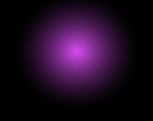
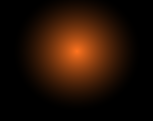
Make the rune transformer a dark iron runesmith's forge
Blackened wrought iron and soot-stained firebrick replace the gold and
purple; the Geneva mechanism is dark bronze and heat-scaled steel. The
hearth, the melt and the ground light glow ember orange, while the rune
glyphs and the reading beam keep their colours.

diff --git a/blender/rune_transformer.py b/blender/rune_transformer.py
@@ -45,11 +45,116 @@ assert N % FPI == 0 and (N // FPI) % 9 == 0, "loop must index the carousel a who
 # ----------------------------------------------------------------------------
 # Materials
 # ----------------------------------------------------------------------------
+#
+# A runesmith's forge, not another gold-and-purple pedestal: blackened wrought
+# iron and soot-stained firebrick, heat-scaled steel and dark bronze in the
+# mechanism, ember-orange fire. Gold survives only as a few accents (GILT:
+# hearth frame, glyph-plate frames, crucible lip, orb ring), purple only in
+# the orb. The shared names are rebound below - in this module and in fblend,
+# whose helpers (frames, filigree, studs) default to fblend.GOLD / RUBY - so
+# the model code keeps its structure.
+
+GILT, GEM = GOLD, RUBY
+
+
+def firebrick(name):
+    """Running-bond firebrick, soot-blackened towards the top and in patches.
+    Bricks are laid in (x + y, z) so front and side walls share one bond."""
+    m, nt, bsdf = node_mat(name)
+    L = nt.links.new
+    tc = nt.nodes.new("ShaderNodeTexCoord")
+    sep = nt.nodes.new("ShaderNodeSeparateXYZ")
+    L(tc.outputs["Object"], sep.inputs[0])
+    uadd = nt.nodes.new("ShaderNodeMath")
+    L(sep.outputs["X"], uadd.inputs[0])
+    L(sep.outputs["Y"], uadd.inputs[1])
+    comb = nt.nodes.new("ShaderNodeCombineXYZ")
+    L(uadd.outputs[0], comb.inputs["X"])
+    L(sep.outputs["Z"], comb.inputs["Y"])
+    br = nt.nodes.new("ShaderNodeTexBrick")
+    br.inputs["Scale"].default_value = 1.0
+    br.inputs["Brick Width"].default_value = 0.13
+    br.inputs["Row Height"].default_value = 0.055
+    br.inputs["Mortar Size"].default_value = 0.008
+    br.inputs["Color1"].default_value = (0.30, 0.12, 0.06, 1)
+    br.inputs["Color2"].default_value = (0.19, 0.075, 0.04, 1)
+    br.inputs["Mortar"].default_value = (0.05, 0.045, 0.04, 1)
+    br.offset = 0.5
+    L(comb.outputs[0], br.inputs["Vector"])
+    # soot: noise patches, heavier up the wall (smoke rises past the rim)
+    nz = nt.nodes.new("ShaderNodeTexNoise")
+    nz.inputs["Scale"].default_value = 6.0
+    nz.inputs["Detail"].default_value = 8.0
+    L(tc.outputs["Object"], nz.inputs["Vector"])
+    hz = nt.nodes.new("ShaderNodeMapRange")
+    hz.inputs["From Min"].default_value = 0.1
+    hz.inputs["From Max"].default_value = 0.55
+    hz.inputs["To Min"].default_value = 0.1
+    hz.inputs["To Max"].default_value = 0.6
+    L(sep.outputs["Z"], hz.inputs["Value"])
+    sm = nt.nodes.new("ShaderNodeMath")
+    sm.operation = "MULTIPLY_ADD"
+    L(nz.outputs["Fac"], sm.inputs[0])
+    sm.inputs[1].default_value = 0.9
+    L(hz.outputs["Result"], sm.inputs[2])
+    sc = nt.nodes.new("ShaderNodeMapRange")
+    sc.inputs["From Min"].default_value = 0.6
+    sc.inputs["From Max"].default_value = 1.1
+    L(sm.outputs[0], sc.inputs["Value"])
+    mix = nt.nodes.new("ShaderNodeMix")
+    mix.data_type = "RGBA"
+    mix.inputs["B"].default_value = (0.02, 0.018, 0.016, 1)
+    L(sc.outputs["Result"], mix.inputs["Factor"])
+    L(br.outputs["Color"], mix.inputs["A"])
+    ao = nt.nodes.new("ShaderNodeAmbientOcclusion")
+    ao.inputs["Distance"].default_value = 0.1
+    L(mix.outputs["Result"], ao.inputs["Color"])
+    L(ao.outputs["Color"], bsdf.inputs["Base Color"])
+    bsdf.inputs["Roughness"].default_value = 0.85
+    # recessed mortar joints plus pitted brick faces
+    pit = nt.nodes.new("ShaderNodeTexNoise")
+    pit.inputs["Scale"].default_value = 70.0
+    L(tc.outputs["Object"], pit.inputs["Vector"])
+    hsum = nt.nodes.new("ShaderNodeMath")
+    hsum.operation = "MULTIPLY_ADD"
+    L(pit.outputs["Fac"], hsum.inputs[0])
+    hsum.inputs[1].default_value = 0.25
+    L(br.outputs["Fac"], hsum.inputs[2])
+    b = nt.nodes.new("ShaderNodeBump")
+    b.inputs["Strength"].default_value = 0.7
+    b.inputs["Distance"].default_value = 0.01
+    b.invert = True
+    L(hsum.outputs[0], b.inputs["Height"])
+    L(b.outputs["Normal"], bsdf.inputs["Normal"])
+    return m
+
+
+BRICK = firebrick("firebrick")
+IRON = metal("wrought_iron", (0.13, 0.12, 0.11), (0.018, 0.016, 0.014), rough=(0.45, 0.75),
+             bump=0.35, bump_scale=45.0, dirt=0.35, wear=(0.2, 0.19, 0.18), hammered=True)
+# heat-scaled steel: dull grey with straw-to-blue temper bloom in the noise
+SCALED = metal("heat_scaled_steel", (0.30, 0.27, 0.26), (0.05, 0.045, 0.06), rough=(0.3, 0.6),
+               noise_scale=7.0, dirt=0.25, wear=(0.36, 0.25, 0.14))
+DARK_BRONZE = metal("dark_bronze", (0.26, 0.17, 0.09), (0.035, 0.022, 0.012), rough=(0.35, 0.65),
+                    dirt=0.3)
+STONE = paint("refractory", (0.25, 0.22, 0.19), (0.04, 0.035, 0.03), noise_scale=12.0,
+              bump=0.8, bump_scale=35.0, dirt=0.45)
+GOLD = fblend.GOLD = IRON          # frames, rails, scrollwork: wrought iron strapwork
+RUBY = fblend.RUBY = IRON          # stud heads: iron rivets
+BRASS = DARK_BRONZE
+STEEL = fblend.STEEL = SCALED
+BRONZE = IRON
+PURPLE = BRICK
+# the wing inlays and the rack tile glow like embers, not mana
+_rb = fblend.RUNE.node_tree.nodes["Principled BSDF"]
+_rb.inputs["Emission Color"].default_value = (1.0, 0.38, 0.08, 1)
+_rb.inputs["Base Color"].default_value = (0.06, 0.03, 0.02, 1)
+EMBER = (1.0, 0.36, 0.07)
 
 SLATE = paint("slate", (0.075, 0.055, 0.085), (0.012, 0.008, 0.014), noise_scale=14.0,
               bump=0.5, bump_scale=40.0, dirt=0.1, hammered=True)
-DECK = paint("deck", (0.22, 0.045, 0.17), (0.02, 0.004, 0.016), noise_scale=9.0,
-             bump=0.6, bump_scale=25.0, dirt=0.35, hammered=True)
+DECK = metal("deck", (0.10, 0.095, 0.09), (0.015, 0.013, 0.012), rough=(0.5, 0.8),
+             noise_scale=9.0, bump=0.6, bump_scale=25.0, dirt=0.5, hammered=True)
 
 # The nine rune words, in carousel order, coloured like their item icons.
 GLYPHS = (
@@ -129,9 +234,10 @@ def flowing(name, color, strength, scale=9.0):
 
 
 MELT, MELT_EM, MELT_COL, MELT_UV = flowing("melt", GLYPHS[0][1], 1.0, scale=14.0)
-HEARTH, HEARTH_EM, _, HEARTH_UV = flowing("hearth", (0.85, 0.12, 0.7), 1.0, scale=7.0)
+HEARTH, HEARTH_EM, _, HEARTH_UV = flowing("hearth", EMBER, 1.0, scale=7.0)
 ORB, ORB_EM = emitter("orb", (0.85, 0.12, 0.8), 1.0, base=(0.5, 0.03, 0.42), glass=True)
-VIAL, VIAL_EM = emitter("vial", (0.6, 0.1, 0.75), 0.6, base=(0.3, 0.03, 0.35))
+# the vial holds liquid fire feeding the crucible
+VIAL, VIAL_EM = emitter("vial", (1.0, 0.42, 0.08), 0.6, base=(0.2, 0.05, 0.01))
 
 
 def beam_mat():
@@ -216,7 +322,7 @@ def rail(name, pts3, r, closed=False, mat=None, parent=None):
 FIL_R = 0.022        # raised scrollwork (thinner than the 3x3's: smaller panels)
 
 # --- plinth: dark bronze band, gold top rail, rivets ---------------------------
-prism("plinth", bot2d, 0, PLINTH_H, BRONZE)
+prism("plinth", bot2d, 0, PLINTH_H, STONE)
 rail("plinth_rail", [(x, y, PLINTH_H) for x, y in bot2d], 0.04, closed=True)
 rail("plinth_foot", [(x * 1.006, y * 1.006, 0.015) for x, y in bot2d], 0.02, closed=True)
 for fi in (5, 0, 1, 2):
@@ -246,13 +352,13 @@ throat = sub_panel(front, WIN_U0 + 0.01, WIN_U1 - 0.01, WIN_V0 + 0.02, WIN_V1 - 
 fire_o = throat.build("hearth_fire", HEARTH, thick=0.005, parent=root)
 fire_o.location = tuple(front.n * 0.004)     # just proud of the wall, behind the grille
 glow(fire_o)
-gold_frame(win, "hearth_frame", r=0.034, parent=root)
+gold_frame(win, "hearth_frame", r=0.034, parent=root, mat=GILT)
 for k in range(5):   # grille bars, partly veiling the fire
     u = (k + 1) / 6
     rail(f"hearth_bar{k}", [win.at(u, 0.0, 0.03), win.at(u, 1.0, 0.03)], 0.012, mat=BRASS)
 rail("hearth_crossbar", [win.at(0.0, 0.5, 0.035), win.at(1.0, 0.5, 0.035)], 0.011, mat=BRASS)
 # lintel with ruby keystone, sill underneath
-win.studs("hearth_key", [(0.5, 1.12)], r=0.03, mat=RUBY, parent=root)
+win.studs("hearth_key", [(0.5, 1.12)], r=0.03, mat=GEM, parent=root)
 rail("hearth_sill", [win.at(-0.08, -0.1, 0.03), win.at(1.08, -0.1, 0.03)], 0.026)
 for k, (u0, u1, m) in enumerate(((0.03, WIN_U0 - 0.05, False), (WIN_U1 + 0.05, 0.97, True))):
     sp = sub_panel(front, u0, u1, 0.12, 0.88)
@@ -548,7 +654,7 @@ for i, (ch, col) in enumerate(GLYPHS):
     p = Panel(c00, c10, c11, c01)
     p.build(f"plate{i}", SLATE, thick=0.03, parent=carousel)
     face = sub_panel(p, 0.14, 0.86, 0.1, 0.9)
-    gold_frame(face, f"plate{i}_frame", r=0.011, parent=carousel)
+    gold_frame(face, f"plate{i}_frame", r=0.011, parent=carousel, mat=GILT)
     for si, stroke in enumerate(LETTERS[ch]):
         glow(curve_obj(f"plate{i}_glyph{si}",
                        [face.at(0.2 + 0.6 * u, 0.12 + 0.76 * v, 0.008) for u, v in stroke],
@@ -582,7 +688,7 @@ prism("car_lid", [(c.x * 1.02, c.y * 1.02) for c in corners_t], zt, zt + 0.03, G
 bm = bmesh.new()
 bmesh.ops.create_uvsphere(bm, u_segments=36, v_segments=18, radius=RT * 0.78)
 bmesh.ops.delete(bm, geom=[v for v in bm.verts if v.co.z < -1e-4], context="VERTS")
-dome = mesh_obj("car_dome", bm, PURPLE, carousel, smooth=True)
+dome = mesh_obj("car_dome", bm, SCALED, carousel, smooth=True)
 dome.location = (0, 0, zt + 0.03)
 dome.scale = (1, 1, 0.55)
 for i in range(NP):    # gold ribs over the dome
@@ -594,7 +700,7 @@ for i in range(NP):    # gold ribs over the dome
            carousel)
 DOME_TOP = zt + 0.03 + RT * 0.78 * 0.55
 cyl("car_spindle", 0.018, 0.12, (0, 0, DOME_TOP + 0.05), GOLD, carousel, verts=16)
-cyl("car_spindle_cup", 0.045, 0.02, (0, 0, DOME_TOP + 0.11), GOLD, carousel, verts=24, r2=0.06)
+cyl("car_spindle_cup", 0.045, 0.02, (0, 0, DOME_TOP + 0.11), GILT, carousel, verts=24, r2=0.06)
 
 # --- the crucible in front of the reading position -------------------------------
 CRU = Vector((0.0, -0.285, DECK_Z + 0.07))   # rim centre
@@ -602,7 +708,7 @@ CRU_R = 0.105
 o = mesh_obj("crucible_rim", ring_mesh(
     [(CRU_R * math.cos(TAU * i / 48), CRU_R * math.sin(TAU * i / 48)) for i in range(48)],
     [((CRU_R - 0.025) * math.cos(TAU * i / 48), (CRU_R - 0.025) * math.sin(TAU * i / 48))
-     for i in range(48)], -0.025, 0.0), GOLD, mech, smooth=True, bevel=0.008)
+     for i in range(48)], -0.025, 0.0), GILT, mech, smooth=True, bevel=0.008)
 o.location = CRU
 bm = bmesh.new()
 bmesh.ops.create_uvsphere(bm, u_segments=36, v_segments=18, radius=CRU_R)
@@ -707,7 +813,7 @@ CHIM = Vector((-0.36, 0.41, DECK_Z))
 CHIM_H = 0.62
 cyl("chimney_stack", 0.075, CHIM_H, (CHIM.x, CHIM.y, DECK_Z + CHIM_H / 2), BRONZE, mech,
     verts=32, r2=0.06)
-cyl("chimney_foot", 0.11, 0.08, (CHIM.x, CHIM.y, DECK_Z + 0.04), PURPLE, mech, verts=32,
+cyl("chimney_foot", 0.11, 0.08, (CHIM.x, CHIM.y, DECK_Z + 0.04), BRICK, mech, verts=32,
     r2=0.085)
 for k, zz in enumerate((0.09, 0.3, 0.5)):
     rr = 0.075 - 0.015 * zz / CHIM_H
@@ -740,11 +846,11 @@ glow(sphere("orb_core", 0.062, (0, 0, 0), ORB, orb, segs=32))
 ring = mesh_obj("orb_ring", ring_mesh(
     [(0.095 * math.cos(TAU * i / 48), 0.095 * math.sin(TAU * i / 48)) for i in range(48)],
     [(0.084 * math.cos(TAU * i / 48), 0.084 * math.sin(TAU * i / 48)) for i in range(48)],
-    -0.008, 0.008), GOLD, orb, smooth=True, bevel=0.003)
+    -0.008, 0.008), GILT, orb, smooth=True, bevel=0.003)
 ring.rotation_mode = "ZXY"
 for g in range(3):
     sphere(f"orb_ring_gem{g}", 0.014, (0.09 * math.cos(TAU * g / 3), 0.09 * math.sin(TAU * g / 3),
-                                       0), RUBY, ring)
+                                       0), GEM, ring)
 # ring precesses once per loop; orb bobs twice per loop
 animated.append((ring, lambda o, f: setattr(o, "rotation_euler",
                                             (math.radians(62), 0, TAU * f / N))))
@@ -768,7 +874,7 @@ def set_energy(light, e):
 
 
 melt_light = point("melt_light", (1, 1, 1), CRU + Vector((0, -0.02, 0.1)))
-hearth_light = point("hearth_light", (1.0, 0.3, 0.85), Vector(front.at(0.5, 0.5, 0.12)))
+hearth_light = point("hearth_light", (1.0, 0.45, 0.15), Vector(front.at(0.5, 0.5, 0.12)))
 orb_light = point("orb_light", (1.0, 0.3, 0.9), ORB_C + Vector((0, -0.03, 0)))
 MAGIC_LIGHTS = (melt_light, hearth_light, orb_light)
 
@@ -805,10 +911,12 @@ def pose_magic(f, working):
     t = s - math.floor(s)
     t = t * t * (3 - 2 * t)
     col = lerp3(GLYPHS[i0][1], GLYPHS[i1][1], t)
-    # the melt takes on the colour of the glyph being read, blending while moving
-    MELT_COL.default_value = (*col, 1)
+    # the melt is ember-orange, tinged with the glyph being read; the beam
+    # carries the glyph's own colour
+    melt = lerp3(EMBER, col, 0.3)
+    MELT_COL.default_value = (*melt, 1)
     BEAM_COL.default_value = (*col, 1)
-    melt_light.color = col
+    melt_light.color = melt
     _, mv = motion(f)
     age = lock_age(f)
     flare = math.exp(-age / 4.0) if age is not None else 0.0
@@ -825,12 +933,13 @@ def pose_magic(f, working):
     MELT_UV.default_value = (0.25 * math.cos(a), 0.25 * math.sin(a), 0.1 * math.sin(2 * a))
     HEARTH_UV.default_value = (0.4 * math.cos(-a), 0.15 * math.sin(2 * a), 0.4 * math.sin(-a))
     if working:
-        MELT_EM.default_value = 1.3 + 1.0 * flare
-        HEARTH_EM.default_value = 2.0 + 0.4 * math.sin(4 * TAU * f / N)
-        BEAM_EM.default_value = 3.0 * dwell + 2.0 * flare
+        # kept below clipping, so work - rest stays orange (not green-white)
+        MELT_EM.default_value = 0.8 + 0.6 * flare
+        HEARTH_EM.default_value = 0.85 + 0.15 * math.sin(4 * TAU * f / N)
+        BEAM_EM.default_value = 1.4 * dwell + 0.8 * flare   # unclipped: keeps its hue
         beam.hide_render = (dwell + flare) < 0.02
         ORB_EM.default_value = 1.2 + 3.0 * flare
-        VIAL_EM.default_value = 0.9
+        VIAL_EM.default_value = 0.6
         RUNE_EM.default_value = 0.6 + 1.0 * flare
         set_energy(melt_light, 0.8 + 1.0 * dwell + 1.2 * flare)
         set_energy(hearth_light, 0.5)
@@ -936,7 +1045,7 @@ def render_all():
     # ground is foreshortened by 1/sqrt(2) on screen
     r = np.sqrt(((xx - gw / 2) / (gw * 0.42)) ** 2 + ((yy - gh * 0.42) / (gh * 0.5)) ** 2)
     k = np.clip(1 - r, 0, 1) ** 1.6
-    col = np.array([0.85, 0.3, 0.95], dtype=np.float32)
+    col = np.array([1.0, 0.45, 0.12], dtype=np.float32)   # forge orange
     g = np.concatenate([k[..., None] * col, np.ones_like(k[..., None])], axis=-1)
     save_px(OUT / "ground-light.png", g[::-1].copy())   # Blender pixels are bottom-up
 
